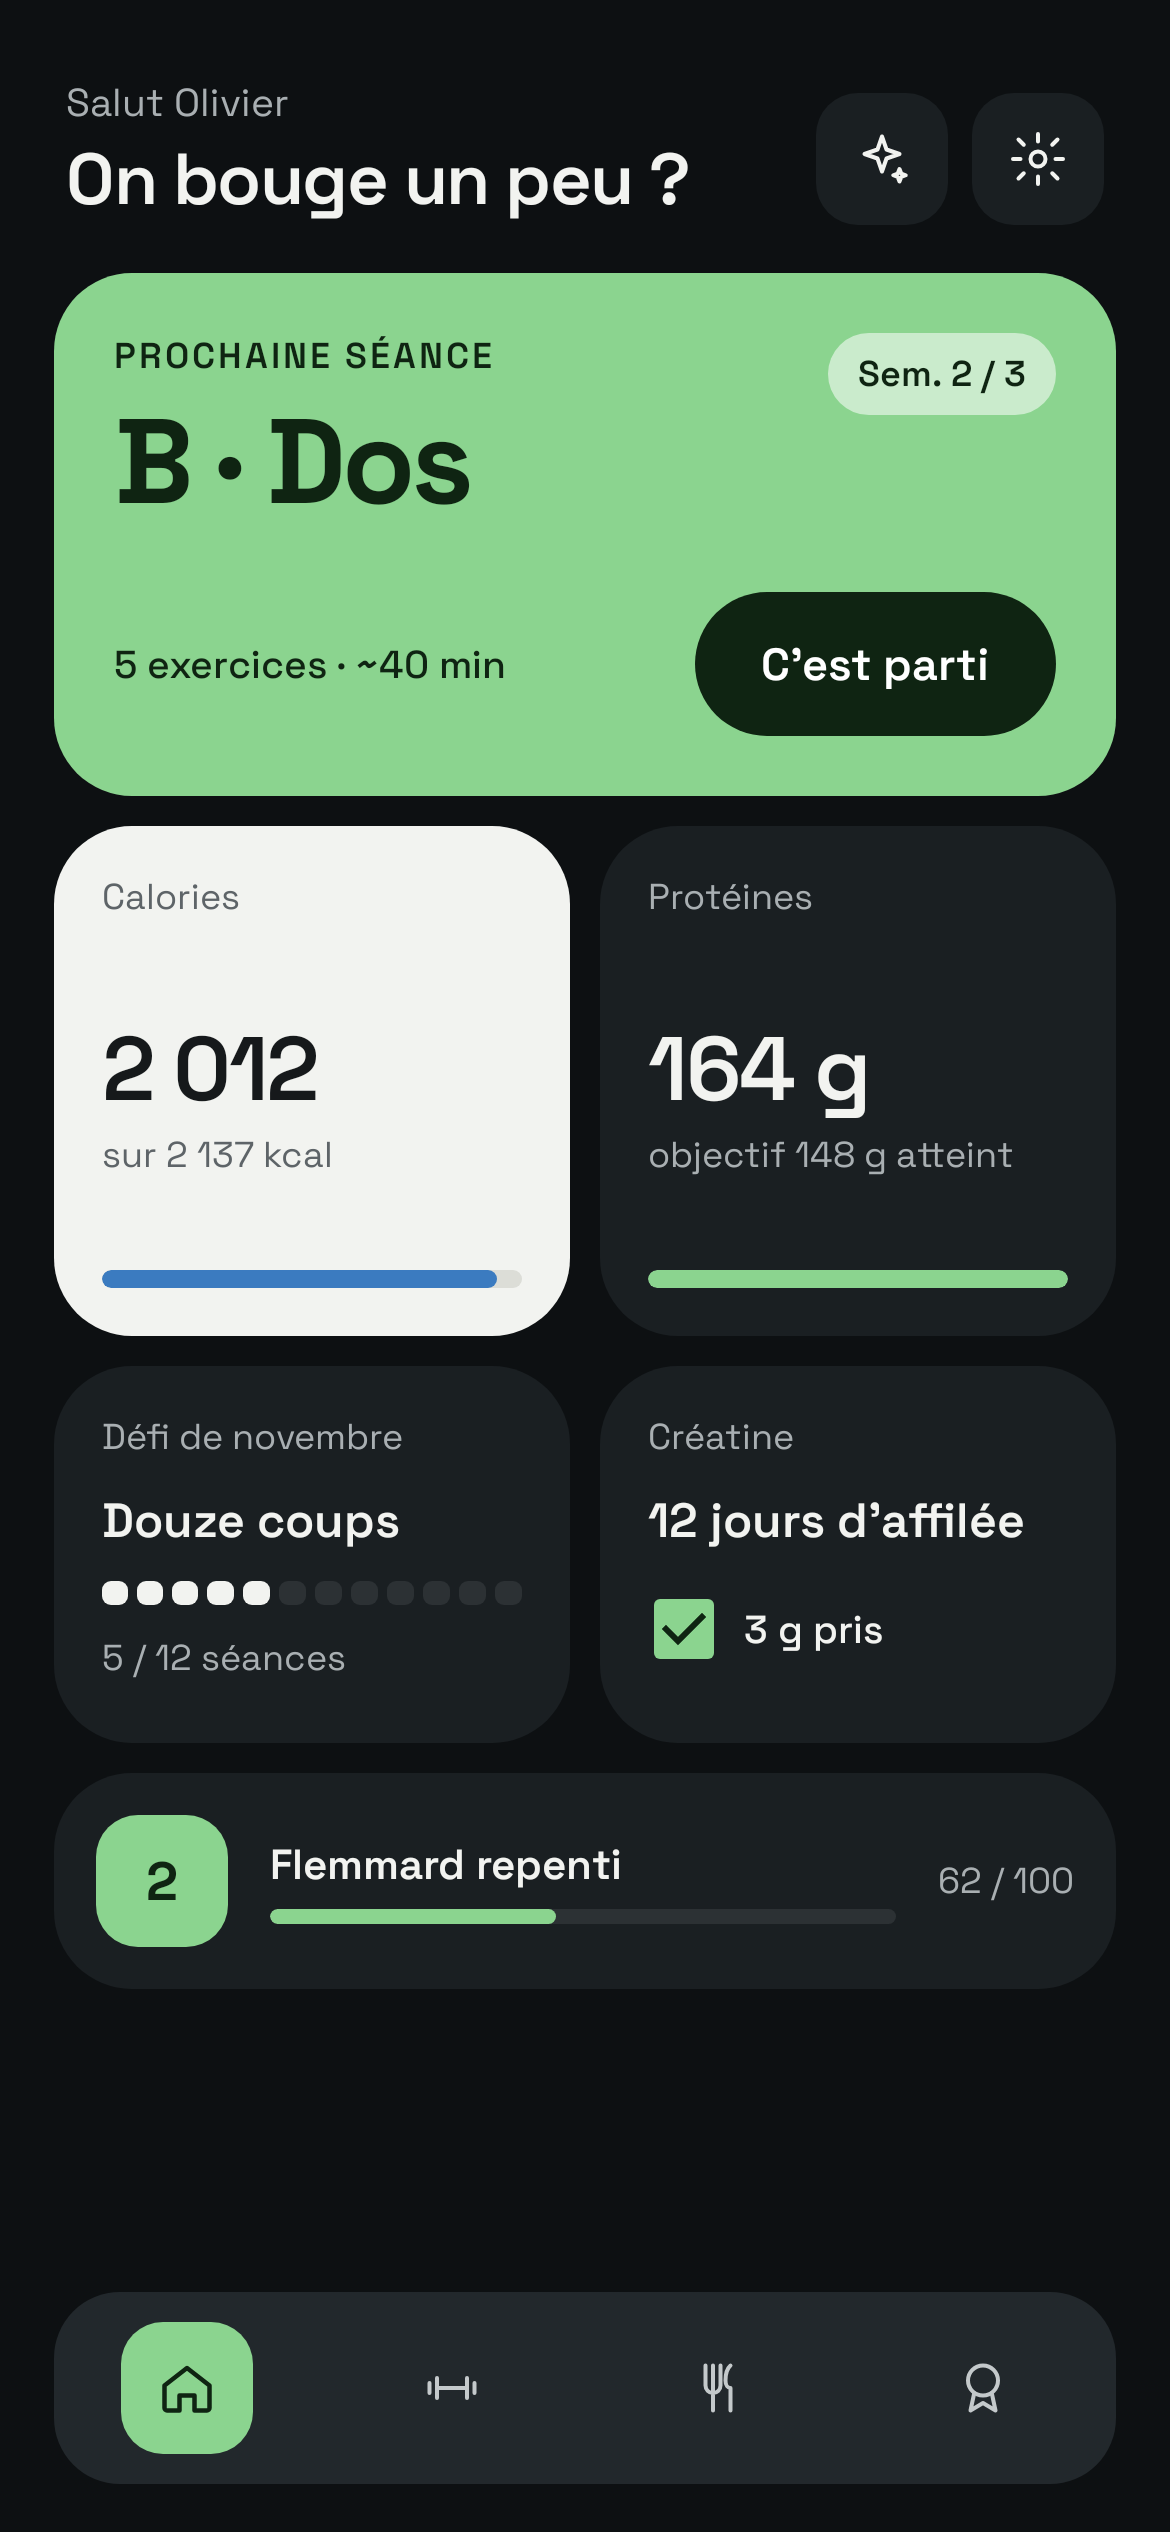
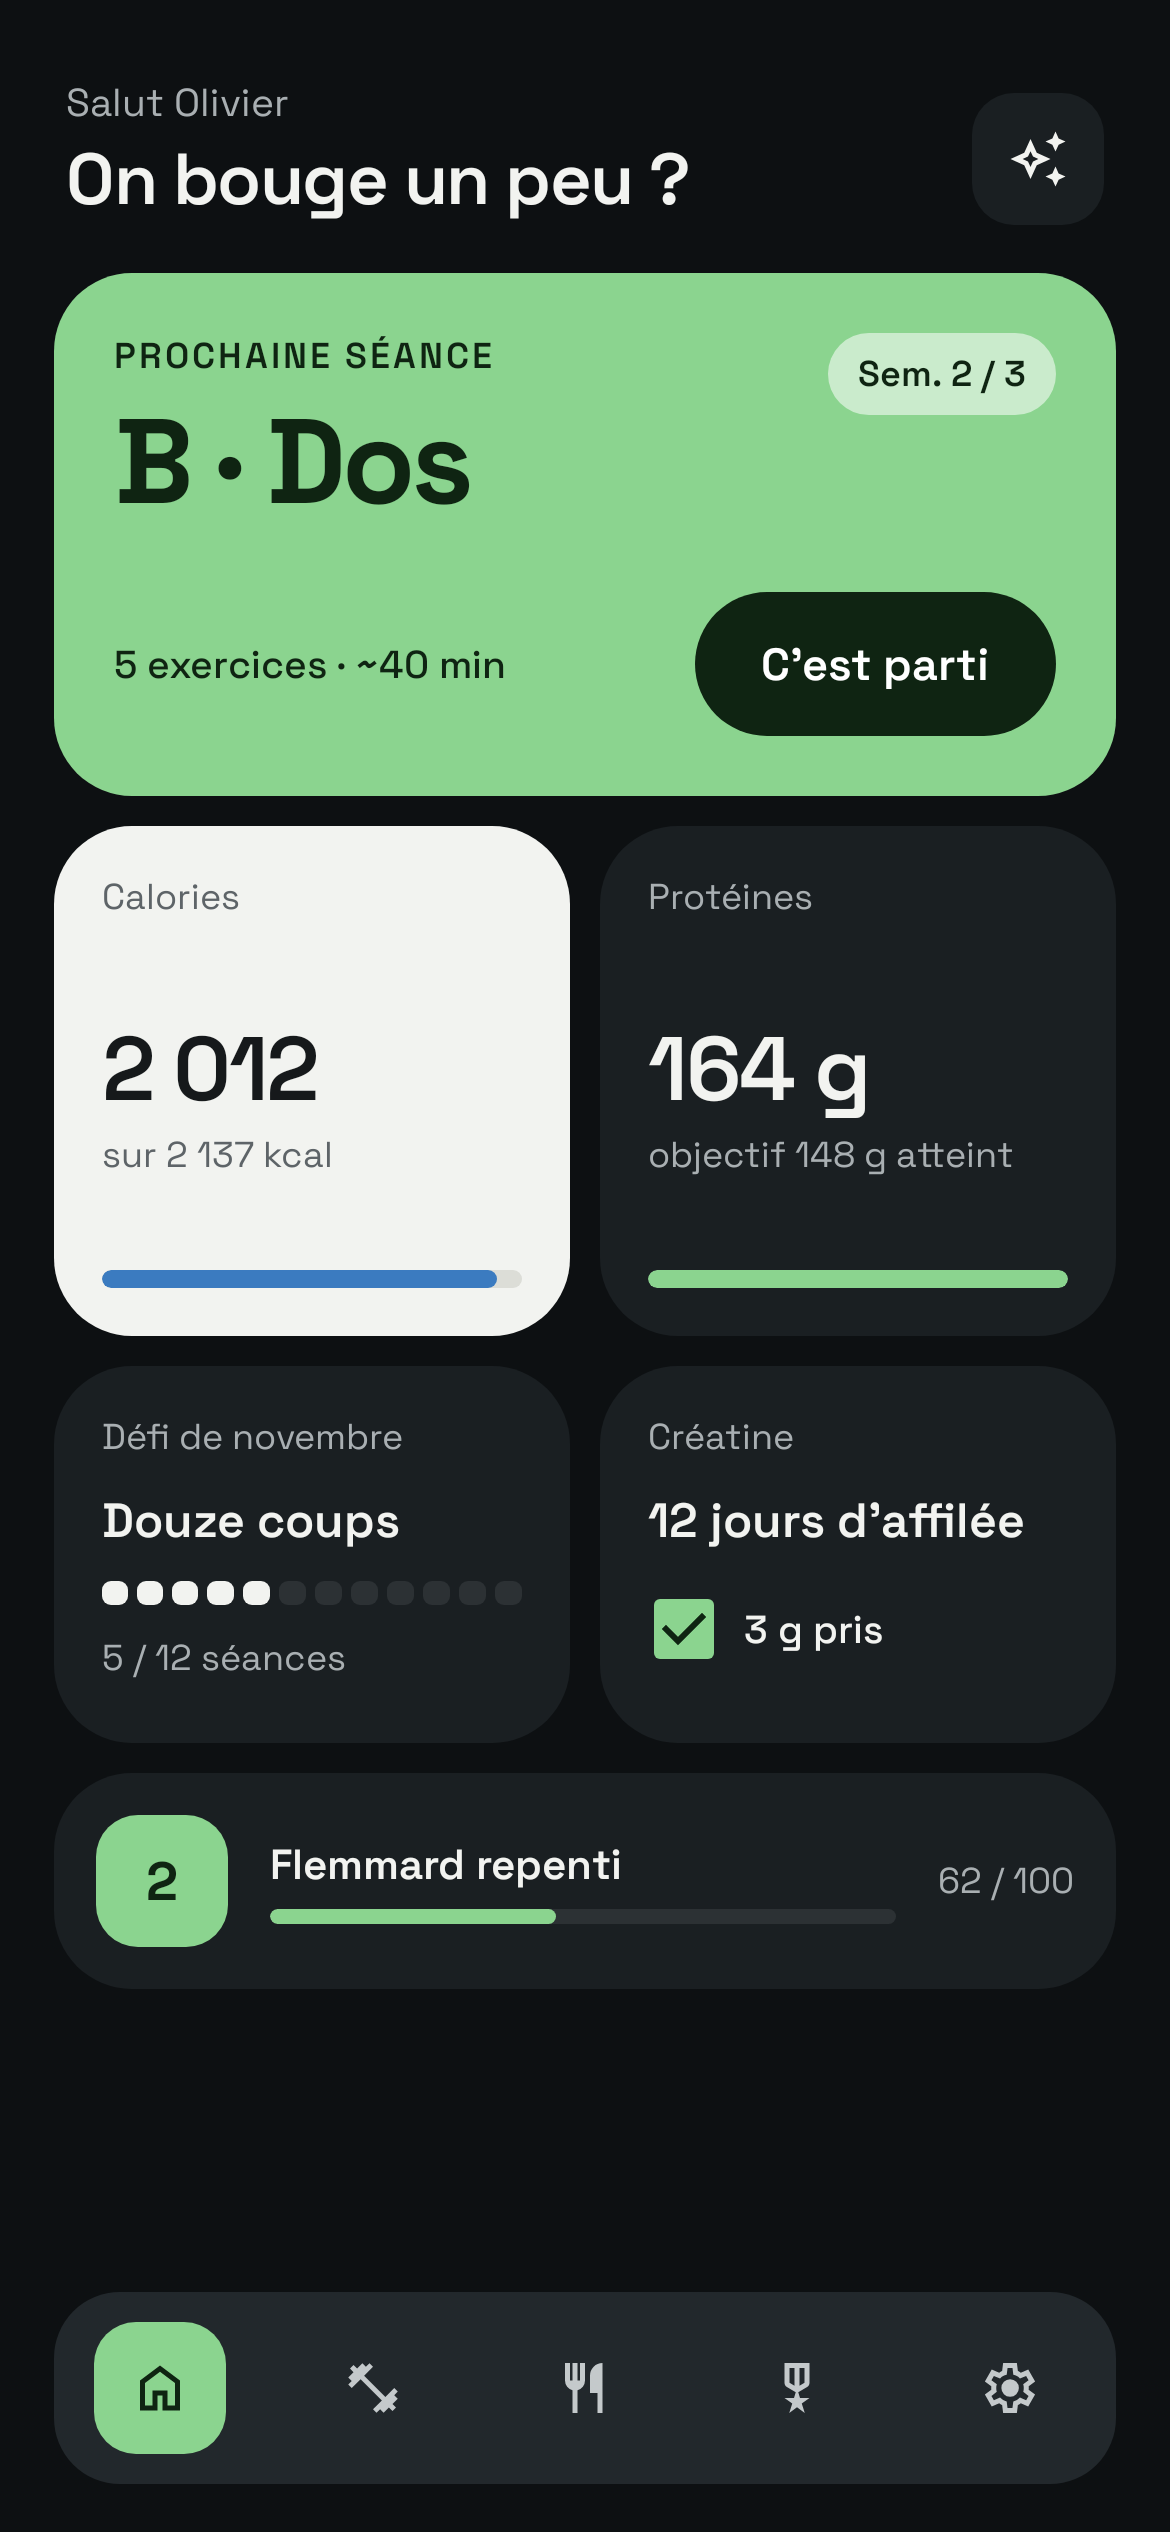
Release 2.23.0: changelog, docs, README screenshot
Claude-Session: https://claude.ai/code/session_01426UkiwXA1a6YfsvA3oTPa

diff --git a/docs/ARCHITECTURE.md b/docs/ARCHITECTURE.md
@@ -271,11 +271,19 @@ Migration explicite **4 → 5** (V2.2) : `profile.heightCm`, `profile.nutritionG
   déduit (machine cardio → Cardio 1 × 20 min ; image de maintien → Durée 3 × 30 s, par côté si unilatéral ; sans
   matériel → Poids du corps ; sinon Charge + reps, 3 × 10–12), relié à son illustration. Le message de confirmation
   propose **Modifier** pour ajuster aussitôt.
-- **Config → Sources et licences** (V2.11) : pour chaque donnée embarquée ou interrogée, son auteur, son usage, sa
+- **Réglages → À propos** (« Sources et licences » de V2.11 à V2.22) : version de l'app, puis pour chaque donnée embarquée ou interrogée, son auteur, son usage, sa
   licence et deux liens (site, texte de la licence) : Open Exercise Illustrations (CC0 1.0, commit `2786aef`, avec la
   mise en garde « générées par IA »), table Ciqual 2025 (Licence Ouverte / Etalab 2.0), Open Food Facts (ODbL 1.0) ;
-  puis les logiciels (Android Jetpack, Kotlin : Apache 2.0 ; ML Kit : conditions Google ; Reorderable : Apache 2.0).
+  puis les logiciels (Android Jetpack, Kotlin, Material Symbols, Reorderable : Apache 2.0 ; ML Kit : conditions Google ;
+  Space Grotesk : OFL 1.1).
   Un test vérifie que le commit affiché est celui de `SOURCE.md` et de `ExerciseLibraryLoader.DATASET_VERSION`.
+- **Mode développeur** (V2.23) : 7 appuis de suite sur la version dans À propos (une pause de plus de 3 s recommence le
+  compte ; « Encore N appuis » à partir de 3) → « Mode développeur activé ». Il affiche le **journal Bluetooth** dans
+  Réglages → Montre cardio (et l'ajoute au rapport copié) ; un interrupteur dans À propos le désactive. Préférence
+  DataStore `developer_mode`, propre au téléphone : pas dans la sauvegarde JSON.
+- Écran « Réglages » de l'ancienne entrée « Réglages et sauvegarde » renommé **Préférences et sauvegarde** (V2.23).
+- **Textes** : depuis V2.23, les nouveaux textes vont dans `res/values/strings.xml` (les plus anciens restent dans le
+  code).
 - **Poids de l'APK** (release, mesuré sur les releases GitHub) :
 
   | Version | APK | Écart |
@@ -356,7 +364,7 @@ Migration explicite **4 → 5** (V2.2) : `profile.heightCm`, `profile.nutritionG
     rafale de changements (séries d'une séance, restauration) ne donne qu'un calcul, 300 ms après le dernier. Records
     détectés en un passage par exercice (meilleure charge et meilleur volume cumulés). Mesuré sur 3 ans
     (624 séances, 20 000 séries) : ~95 ms, dont ~60 ms de requête SQL ; un calcul incrémental n'est pas nécessaire.
-- Restent neutres : poids, repas, mentions santé, Sources et licences, erreurs, confirmations, autorisations.
+- Restent neutres : poids, repas, mentions santé, À propos, erreurs, confirmations, autorisations.
 - Test garde-fou : chaque tableau a des variantes, sa version neutre et une entrée `Quip` ; les versions féminines
   ont autant de phrases ; toutes se formatent avec leurs paramètres.
 
@@ -364,7 +372,7 @@ Migration explicite **4 → 5** (V2.2) : `profile.heightCm`, `profile.nutritionG
 
 - **Grille de tuiles** (aplats, coins 26 dp, police **Space Grotesk** embarquée, licence OFL) : en-tête « Salut {prénom} »
   (Config → Profil) et salutation du catalogue d'humour (message de retour après une pause, ligne « objectif raté » en
-  dessous), boutons **Analyse IA du jour** et **Réglages** (Config). Puis :
+  dessous), bouton **Analyse IA du jour** (le bouton Réglages de V2.22 est devenu un onglet en V2.23). Puis :
   - **Prochaine séance** (accent, pleine largeur) : séance proposée par la rotation, pastille « Sem. 2 / 3 », « 5 exercices
     · ~40 min » (médiane des 5 dernières séances de ce modèle, arrondie à 5 min ; séances de plus de 4 h ignorées). Le
     bouton (« C'est parti », « On y va », « Allez hop » ; « Démarrer » en mode sérieux) lance la séance proposée ; le
@@ -375,8 +383,10 @@ Migration explicite **4 → 5** (V2.2) : `profile.heightCm`, `profile.nutritionG
   - **Défi du mois** (segments jusqu'à 15, barre au-delà) et **Créatine / Compléments** (série de la créatine, une case par
     complément actif, 3 au plus) ; l'une prend toute la largeur si l'autre manque.
   - **Niveau** : numéro, titre, barre vers le niveau suivant ; ouvre l'écran Badges.
-- **Barre de navigation flottante** sur les onglets et sur Config : Accueil, Séances (ex-Historique), Nutrition, Badges ;
-  Config s'ouvre depuis l'en-tête de l'accueil. Le poids (Nutrition → Poids) et les dernières séances (Séances) ne sont
+- **Barre de navigation flottante** sur les 5 onglets (V2.23) : Accueil, Séances (ex-Historique), Nutrition, Badges,
+  **Réglages** (ex-Config, sans flèche retour). Icônes **Material Symbols** Outlined, graisse 400 (`home`,
+  `fitness_center`, `restaurant`, `military_tech`, `settings` ; `auto_awesome` pour l'analyse IA), Apache 2.0, converties
+  telles quelles (`third_party/material-symbols`). Zones tactiles 48 dp, une description par onglet. Le poids (Nutrition → Poids) et les dernières séances (Séances) ne sont
   plus sur l'accueil.
 - **Thèmes** : maquette claire validée ; sombre avec la même structure (tuile calories inversée en clair). Contrastes
   texte ≥ 4,5:1. Barres animées 300 ms, sans animation si « Supprimer les animations » est activé. TalkBack lit chaque

diff --git a/docs/CHANGELOG.md b/docs/CHANGELOG.md
@@ -39,6 +39,7 @@ s'appelaient « Forme », 2.7 à 2.13 « GymBro ».
 | **V2.20.1** ✅ | Correctif : sur un téléphone lent, la proposition de charges allégées (retour après une pause) pouvait s'afficher hors de l'écran, au-dessus du premier exercice ; la séance remonte pour la montrer |
 | **V2.21** ✅ | Plats personnalisés : un plat est un aliment composé d'ingrédients (Ciqual, scannés, perso), avec poids cuit facultatif et nombre de portions ; créé depuis Config → Mes aliments, Nutrition → Ajouter ou « Enregistrer comme plat » sur un repas du journal ; base v11, sauvegarde v11 |
 | **V2.22** ✅ | Accueil « bento » : grille de tuiles (prochaine séance, calories, protéines, défi du mois, compléments, niveau), police Space Grotesk, thèmes clair et sombre, barre de navigation flottante (Accueil, Séances, Nutrition, Badges ; Config dans l'en-tête), prénom dans le profil ; base v12, sauvegarde v12 |
+| **V2.23** ✅ | Barre de navigation à 5 onglets (Réglages, ex-Config, rejoint Accueil, Séances, Nutrition et Badges), icônes Material Symbols ; « Sources et licences » devient « À propos » ; mode développeur (7 appuis sur la version) qui seul affiche le journal Bluetooth de Montre cardio ; « Réglages et sauvegarde » devient « Préférences et sauvegarde » |
 
 Hors périmètre V1.1 : Drive, Health Connect, BLE, partage vers Claude, widgets, Wear OS, multi-utilisateur, analyse photo.
 

diff --git a/README.md b/README.md
@@ -46,8 +46,8 @@ conservées.
 ## Premier lancement
 
 L'app démarre avec des **exemples** : trois modèles de séance (A, B, C) et les machines de l'auteur avec ses charges.
-Adaptez-les à votre salle (⚙ → Catalogue des exercices, Modèles de séance, Rotation) et renseignez votre profil
-(⚙ → Profil) pour que les calculs de calories et de protéines vous correspondent.
+Adaptez-les à votre salle (onglet Réglages → Catalogue des exercices, Modèles de séance, Rotation) et renseignez votre profil
+(Réglages → Profil) pour que les calculs de calories et de protéines vous correspondent.
 
 ## Vie privée
 
@@ -58,7 +58,7 @@ Adaptez-les à votre salle (⚙ → Catalogue des exercices, Modèles de séance
 
 ## Sauvegarder ses données
 
-⚙ → Réglages et sauvegarde : exporte tout dans un fichier JSON que vous pouvez ranger où vous voulez (Google Drive, par
+Réglages → Préférences et sauvegarde : exporte tout dans un fichier JSON que vous pouvez ranger où vous voulez (Google Drive, par
 exemple). La sauvegarde automatique réécrit ce fichier après chaque séance. Sur un nouveau téléphone, installez l'app
 puis importez ce fichier.
 
